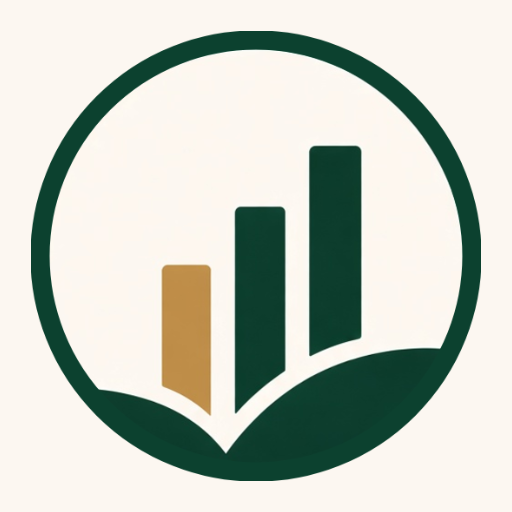
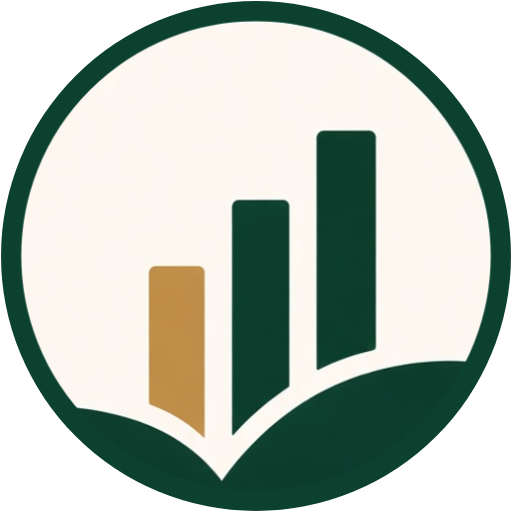
Dejar el sello circular en toda la interfaz y desbloquear la guía tras el certificado.
La ruta del certificado coincidía como prefijo de configuración, así que Siguiente no navegaba al 036 y el tour se congelaba.

diff --git a/components/onboarding/onboarding-provider.tsx b/components/onboarding/onboarding-provider.tsx
@@ -19,6 +19,7 @@ import { MobileOnboardingWizard } from "@/components/onboarding/mobile-onboardin
 import { OnboardingTooltip } from "@/components/onboarding/onboarding-tooltip"
 import { apiFetch } from "@/lib/api-client"
 import { loadStoredCertificate } from "@/lib/settings/certificate-storage"
+import { tourRouteMatches } from "@/lib/onboarding/tour-route"
 import {
   accountTypeToRoleProfile,
   getTourStepsForProfile,
@@ -60,7 +61,7 @@ export function useOnboarding() {
 }
 
 function routeMatches(pathname: string, route: string): boolean {
-  return pathname === route || pathname.startsWith(`${route}/`)
+  return tourRouteMatches(pathname, route)
 }
 
 function waitForSelector(selector: string, timeoutMs = 4000): Promise<boolean> {
@@ -150,9 +151,8 @@ export function OnboardingProvider({ children }: { children: ReactNode }) {
         return false
       }
 
-      const ready = await waitForSelector(definition.target)
-      if (!ready) return false
-
+      await waitForSelector(definition.target)
+      setPendingRoute(null)
       setStepIndex(index)
       setRun(true)
       return true
@@ -230,11 +230,9 @@ export function OnboardingProvider({ children }: { children: ReactNode }) {
     const resume = async () => {
       const definition = stepDefinitions[stepIndex]
       if (!definition) return
-      const ready = await waitForSelector(definition.target)
-      if (ready) {
-        setPendingRoute(null)
-        setRun(true)
-      }
+      await waitForSelector(definition.target)
+      setPendingRoute(null)
+      setRun(true)
     }
 
     void resume()
@@ -297,6 +295,10 @@ export function OnboardingProvider({ children }: { children: ReactNode }) {
         const nextIndex = index + (action === ACTIONS.PREV ? -1 : 1)
         if (nextIndex < 0 || nextIndex >= stepDefinitions.length) return
         void navigateToStep(nextIndex)
+      }
+
+      if (type === EVENTS.TARGET_NOT_FOUND) {
+        void navigateToStep(index)
       }
     },
     [navigateToStep, stepDefinitions.length],

diff --git a/components/seasonal-loading-screen.tsx b/components/seasonal-loading-screen.tsx
@@ -68,7 +68,7 @@ export function SeasonalLoadingScreen({ onLoadingComplete, duration = 3000 }: Se
         <div className="relative">
           <div
             className={cn(
-              "transition-all duration-1000 ease-out",
+              "h-24 w-24 overflow-hidden rounded-full transition-all duration-1000 ease-out sm:h-40 sm:w-40",
               animationPhase === "enter" && "scale-0 rotate-180 opacity-0",
               animationPhase === "pulse" && "scale-100 rotate-0 opacity-100",
               animationPhase === "exit" && "scale-110 opacity-90",
@@ -81,12 +81,12 @@ export function SeasonalLoadingScreen({ onLoadingComplete, duration = 3000 }: Se
                 alt="Taxlyn"
                 width={160}
                 height={160}
-                className="h-24 w-24 object-contain drop-shadow-2xl sm:h-40 sm:w-40"
+                className="h-full w-full rounded-full object-cover"
                 onError={() => setLogoError(true)}
                 priority
               />
             ) : (
-              <div className="flex h-24 w-24 items-center justify-center sm:h-[160px] sm:w-[160px]">
+              <div className="flex h-full w-full items-center justify-center">
                 <LogoFallback size="lg" variant="icon" />
               </div>
             )}

diff --git a/lib/onboarding/__tests__/tour-steps.test.ts b/lib/onboarding/__tests__/tour-steps.test.ts
@@ -1,4 +1,5 @@
 import { describe, expect, it } from "vitest"
+import { tourRouteMatches } from "@/lib/onboarding/tour-route"
 import { getTourStepsForProfile } from "@/lib/onboarding/types"
 
 describe("guía de alta", () => {
@@ -13,6 +14,14 @@ describe("guía de alta", () => {
     expect(steps[0]?.route).toBe("/configuracion")
     expect(steps[1]?.route).toBe("/configuracion/certificado")
     expect(steps[2]?.target).toContain("onboarding-census")
+  })
+
+  it("no confunde el certificado con la ficha de configuración", () => {
+    expect(tourRouteMatches("/configuracion/certificado", "/configuracion")).toBe(false)
+    expect(tourRouteMatches("/configuracion", "/configuracion")).toBe(true)
+    expect(tourRouteMatches("/dashboard/contabilidad/clientes-gestoria", "/dashboard/contabilidad")).toBe(
+      false,
+    )
   })
 
   it("en la gestoría sigue por la cartera y no pide Verifactu", () => {

diff --git a/components/page-loading.tsx b/components/page-loading.tsx
@@ -19,11 +19,11 @@ export function PageLoading({ message = "Cargando...", size = "md" }: PageLoadin
     <div className="flex flex-col items-center justify-center min-h-[200px] space-y-4">
       <div className="relative">
         <Image
-          src="/images/taxlyn-hero.png"
+          src="/images/taxlyn-loading.png"
           alt="Taxlyn"
           width={size === "sm" ? 48 : size === "md" ? 64 : 96}
           height={size === "sm" ? 48 : size === "md" ? 64 : 96}
-          className={cn("object-contain animate-pulse", sizeClasses[size])}
+          className={cn("rounded-full object-cover animate-pulse", sizeClasses[size])}
         />
 
         {/* Spinner alrededor del logo */}

diff --git a/components/seasonal-page-loading.tsx b/components/seasonal-page-loading.tsx
@@ -27,11 +27,11 @@ export function SeasonalPageLoading({ message = "Cargando...", size = "md" }: Se
     >
       <div className="relative">
         <Image
-          src="/images/taxlyn-hero.png"
+          src="/images/taxlyn-loading.png"
           alt="Taxlyn"
           width={size === "sm" ? 48 : size === "md" ? 64 : 96}
           height={size === "sm" ? 48 : size === "md" ? 64 : 96}
-          className={cn("object-contain animate-pulse", sizeClasses[size])}
+          className={cn("rounded-full object-cover animate-pulse", sizeClasses[size])}
         />
 
         {/* Spinner estacional */}

diff --git a/components/loading-screen.tsx b/components/loading-screen.tsx
@@ -55,11 +55,11 @@ export function LoadingScreen({ onLoadingComplete, duration = 2500 }: LoadingScr
             )}
           >
             <Image
-              src="/images/taxlyn-hero.png"
+              src="/images/taxlyn-loading.png"
               alt="Taxlyn"
               width={120}
               height={120}
-              className="object-contain drop-shadow-lg"
+              className="h-[120px] w-[120px] rounded-full object-cover"
               priority
             />
           </div>

diff --git a/components/settings/account-settings-page.tsx b/components/settings/account-settings-page.tsx
@@ -421,7 +421,9 @@ export function AccountSettingsPage() {
                 }))
               }
             />
-          ) : null}
+          ) : (
+            <div data-tour="onboarding-census" className="sr-only" />
+          )}
 
           <div className="space-y-4" data-tour="onboarding-profile-rest">
           {activeCompany ? (

diff --git a/lib/onboarding/tour-route.ts b/lib/onboarding/tour-route.ts
@@ -1,0 +1,8 @@
+/**
+ * El tour compara rutas de forma exacta.
+ * `/configuracion/certificado` no es `/configuracion`: si se trata como prefijo,
+ * "Siguiente" tras el certificado no navega y la guía se queda congelada.
+ */
+export function tourRouteMatches(pathname: string, route: string): boolean {
+  return pathname === route
+}

diff --git a/components/taxlyn-mark.tsx b/components/taxlyn-mark.tsx
@@ -6,7 +6,7 @@ export function TaxlynMark({ className }: { className?: string }) {
     <img
       src="/images/taxlyn-mark.png"
       alt={APP_NAME}
-      className={cn("shrink-0 object-contain", className)}
+      className={cn("shrink-0 rounded-full object-cover", className)}
     />
   )
 }
